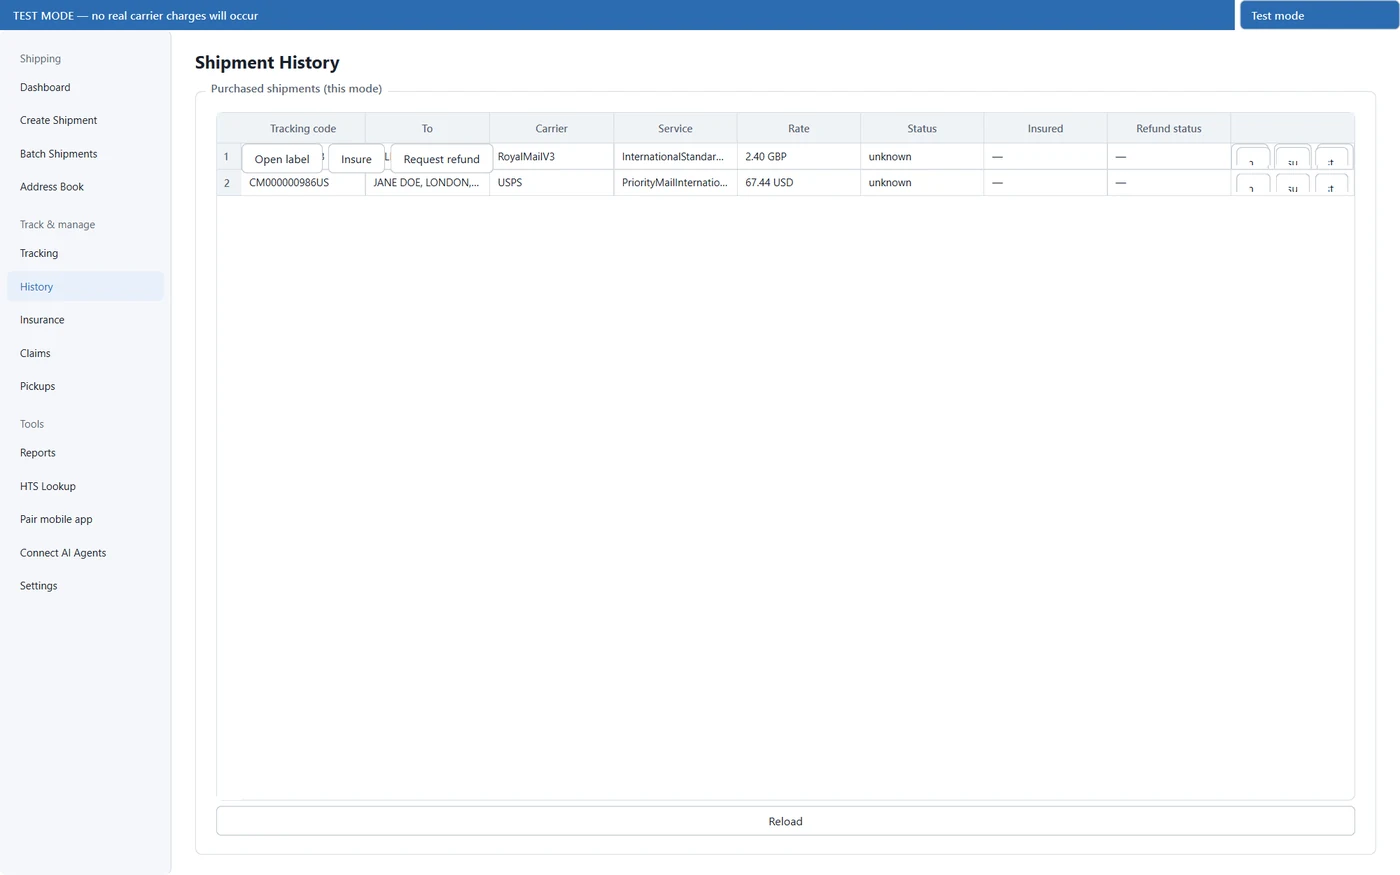
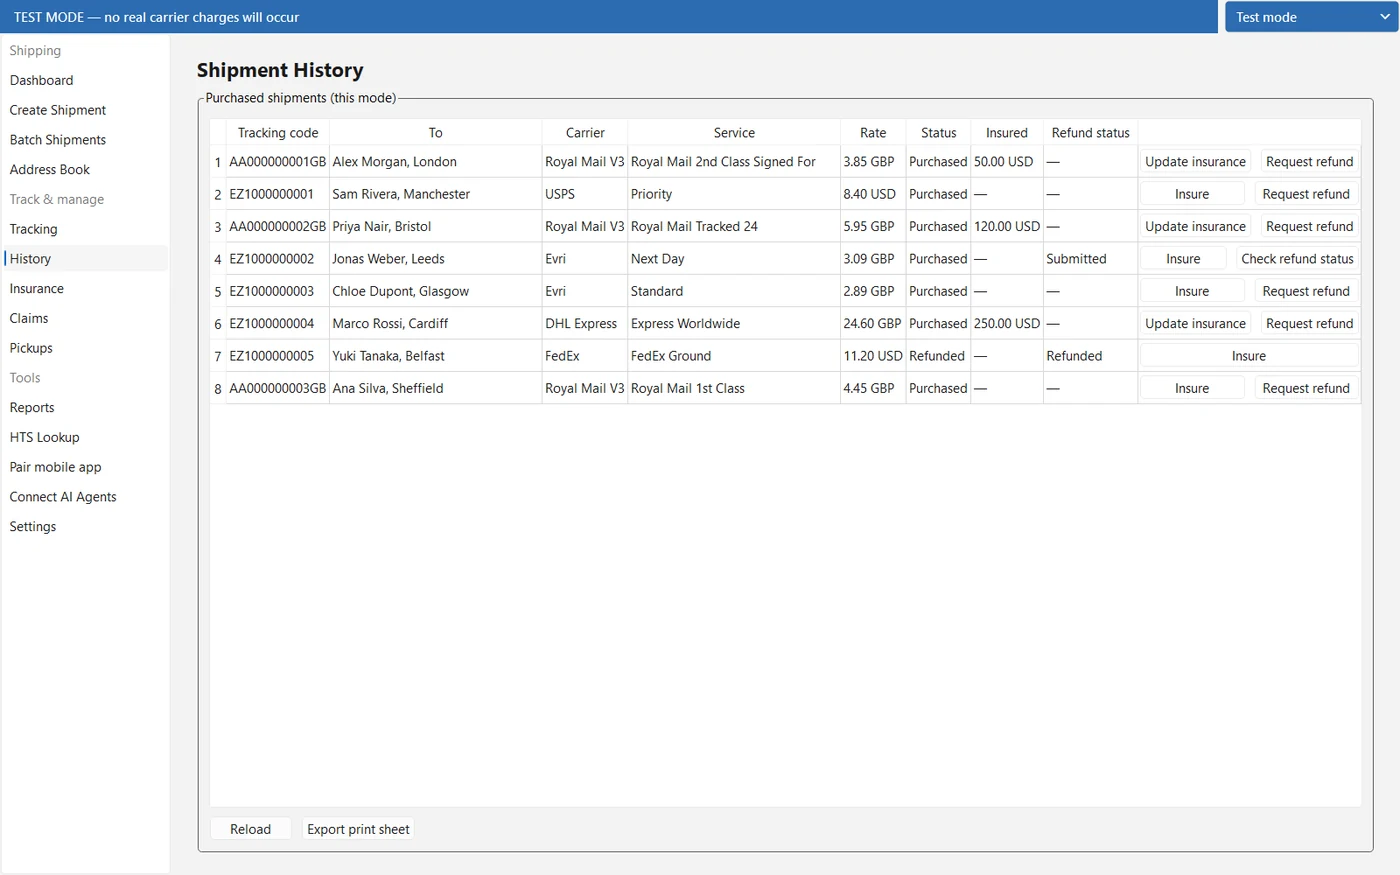
Regenerate the site screenshots and drop the placeholder Dashboard (#59)
* Regenerate eight site screenshots with the fixed capture tool

Replaces address-book, batch-shipments, history, hts-lookup, rate-shopping, reports, settings and tracking. The previous set came from the superseded harness, which photographed the real app database: masked key fields, carrier accounts and an early build with buttons painted over table rows. These are rendered from seeded data with a placeholder key, full window at 1600x1000, downsized to the site's 1400x875 WebP. dashboard.webp is unchanged pending a decision: the app's Dashboard is still a placeholder page.

* Drop the placeholder Dashboard from the site gallery and say eight screens

The Dashboard figure claimed shipping activity at a glance, but the app's Dashboard is still a placeholder page; re-rendering only reproduced it. Remove the figure and dashboard.webp from all 16 language pages and change the gallery sentence from nine screens to eight in each language. It can return once the app has a real Dashboard.

---------

diff --git a/site/te/index.html b/site/te/index.html
@@ -141,7 +141,7 @@
   <div class="wrap">
     <p class="eyebrow">లోపలి వీక్షణ</p>
     <h2>ఇది ఎలా కనిపిస్తుంది</h2>
-    <p>అప్లికేషన్ నుండి నేరుగా తీసుకున్న తొమ్మిది స్క్రీన్షాట్లు, మాక్-అప్లు కాదు.</p>
+    <p>అప్లికేషన్ నుండి నేరుగా తీసుకున్న ఎనిమిది స్క్రీన్షాట్లు, మాక్-అప్లు కాదు.</p>
     <div class="shots">
       <figure>
         <img src="../screenshots/rate-shopping.webp" alt="రేటు పోలిక స్క్రీన్" width="1400" height="875">
@@ -170,10 +170,6 @@
       <figure>
         <img src="../screenshots/hts-lookup.webp" alt="కస్టమ్స్ కోడ్ లుకప్" width="1400" height="875" loading="lazy" decoding="async">
         <figcaption>కస్టమ్స్ పత్రాల కోసం ప్రత్యక్ష హార్మొనైజ్డ్ టారిఫ్ షెడ్యూల్ కోడ్లను శోధించండి.</figcaption>
-      </figure>
-      <figure>
-        <img src="../screenshots/dashboard.webp" alt="డాష్బోర్డ్" width="1400" height="875" loading="lazy" decoding="async">
-        <figcaption>యాప్ తెరవగానే ఒక్క చూపులో షిప్పింగ్ కార్యకలాపం.</figcaption>
       </figure>
       <figure>
         <img src="../screenshots/settings.webp" alt="సెట్టింగుల స్క్రీన్" width="1400" height="875" loading="lazy" decoding="async">

diff --git a/site/bn/index.html b/site/bn/index.html
@@ -141,7 +141,7 @@
   <div class="wrap">
     <p class="eyebrow">একটি ভেতরের দৃশ্য</p>
     <h2>এটি কেমন দেখায়</h2>
-    <p>নিজেই অ্যাপ্লিকেশন থেকে নেওয়া নয়টি স্ক্রিন, কোনো মক-আপ নয়।</p>
+    <p>নিজেই অ্যাপ্লিকেশন থেকে নেওয়া আটটি স্ক্রিন, কোনো মক-আপ নয়।</p>
     <div class="shots">
       <figure>
         <img src="../screenshots/rate-shopping.webp" alt="রেট তুলনা স্ক্রিন" width="1400" height="875">
@@ -170,10 +170,6 @@
       <figure>
         <img src="../screenshots/hts-lookup.webp" alt="কাস্টমস কোড লুকআপ" width="1400" height="875" loading="lazy" decoding="async">
         <figcaption>কাস্টমস কাগজপত্রের জন্য লাইভ Harmonized Tariff Schedule কোড অনুসন্ধান করুন।</figcaption>
-      </figure>
-      <figure>
-        <img src="../screenshots/dashboard.webp" alt="ড্যাশবোর্ড" width="1400" height="875" loading="lazy" decoding="async">
-        <figcaption>শিপিং কার্যক্রম এক নজরে, অ্যাপ খোলামাত্রই।</figcaption>
       </figure>
       <figure>
         <img src="../screenshots/settings.webp" alt="সেটিংস স্ক্রিন" width="1400" height="875" loading="lazy" decoding="async">

diff --git a/site/hi/index.html b/site/hi/index.html
@@ -141,7 +141,7 @@
   <div class="wrap">
     <p class="eyebrow">एक झलक अंदर की</p>
     <h2>यह देखने में कैसा है</h2>
-    <p>स्वयं ऐप्लिकेशन से लिए गए नौ स्क्रीन, कोई मॉक-अप नहीं।</p>
+    <p>स्वयं ऐप्लिकेशन से लिए गए आठ स्क्रीन, कोई मॉक-अप नहीं।</p>
     <div class="shots">
       <figure>
         <img src="../screenshots/rate-shopping.webp" alt="रेट तुलना स्क्रीन" width="1400" height="875">
@@ -170,10 +170,6 @@
       <figure>
         <img src="../screenshots/hts-lookup.webp" alt="कस्टम्स कोड लुकअप" width="1400" height="875" loading="lazy" decoding="async">
         <figcaption>कस्टम्स कागज़ी कार्रवाई के लिए लाइव Harmonized Tariff Schedule कोड खोजें।</figcaption>
-      </figure>
-      <figure>
-        <img src="../screenshots/dashboard.webp" alt="डैशबोर्ड" width="1400" height="875" loading="lazy" decoding="async">
-        <figcaption>ऐप खुलते ही शिपिंग गतिविधि एक नज़र में।</figcaption>
       </figure>
       <figure>
         <img src="../screenshots/settings.webp" alt="सेटिंग्स स्क्रीन" width="1400" height="875" loading="lazy" decoding="async">

diff --git a/site/mr/index.html b/site/mr/index.html
@@ -141,7 +141,7 @@
   <div class="wrap">
     <p class="eyebrow">आतमध्ये एक नजर</p>
     <h2>ते कसे दिसते</h2>
-    <p>अॅप्लिकेशनमधीलच नऊ स्क्रीन, नमुना प्रतिमा नव्हे.</p>
+    <p>अॅप्लिकेशनमधीलच आठ स्क्रीन, नमुना प्रतिमा नव्हे.</p>
     <div class="shots">
       <figure>
         <img src="../screenshots/rate-shopping.webp" alt="दर तुलना स्क्रीन" width="1400" height="875">
@@ -170,10 +170,6 @@
       <figure>
         <img src="../screenshots/hts-lookup.webp" alt="कस्टम्स कोड लूकअप" width="1400" height="875" loading="lazy" decoding="async">
         <figcaption>कस्टम्स कागदपत्रांसाठी थेट Harmonized Tariff Schedule कोड शोधा.</figcaption>
-      </figure>
-      <figure>
-        <img src="../screenshots/dashboard.webp" alt="डॅशबोर्ड" width="1400" height="875" loading="lazy" decoding="async">
-        <figcaption>अॅप उघडताच शिपिंग हालचालींचा एका दृष्टीक्षेपात आढावा.</figcaption>
       </figure>
       <figure>
         <img src="../screenshots/settings.webp" alt="सेटिंग्ज स्क्रीन" width="1400" height="875" loading="lazy" decoding="async">

diff --git a/site/ru/index.html b/site/ru/index.html
@@ -141,7 +141,7 @@
   <div class="wrap">
     <p class="eyebrow">Взгляд изнутри</p>
     <h2>Как это выглядит</h2>
-    <p>Девять экранов из самого приложения, а не макеты.</p>
+    <p>Восемь экранов из самого приложения, а не макеты.</p>
     <div class="shots">
       <figure>
         <img src="../screenshots/rate-shopping.webp" alt="Экран сравнения тарифов" width="1400" height="875">
@@ -170,10 +170,6 @@
       <figure>
         <img src="../screenshots/hts-lookup.webp" alt="Поиск таможенных кодов" width="1400" height="875" loading="lazy" decoding="async">
         <figcaption>Ищите актуальные коды Гармонизированной тарифной системы для таможенных документов.</figcaption>
-      </figure>
-      <figure>
-        <img src="../screenshots/dashboard.webp" alt="Панель управления" width="1400" height="875" loading="lazy" decoding="async">
-        <figcaption>Сводка почтовой активности сразу при открытии приложения.</figcaption>
       </figure>
       <figure>
         <img src="../screenshots/settings.webp" alt="Экран настроек" width="1400" height="875" loading="lazy" decoding="async">

diff --git a/site/ur/index.html b/site/ur/index.html
@@ -141,7 +141,7 @@
   <div class="wrap">
     <p class="eyebrow">ایک نظر اندر</p>
     <h2>یہ کیسا دکھتا ہے</h2>
-    <p>ایپلیکیشن سے ہی لیے گئے نو اسکرین شاٹس، نہ کہ نقلی نمونے۔</p>
+    <p>ایپلیکیشن سے ہی لیے گئے آٹھ اسکرین شاٹس، نہ کہ نقلی نمونے۔</p>
     <div class="shots">
       <figure>
         <img src="../screenshots/rate-shopping.webp" alt="ریٹ موازنہ اسکرین" width="1400" height="875">
@@ -170,10 +170,6 @@
       <figure>
         <img src="../screenshots/hts-lookup.webp" alt="کسٹمز کوڈ لُک اپ" width="1400" height="875" loading="lazy" decoding="async">
         <figcaption>کسٹمز کاغذی کارروائی کے لیے لائیو Harmonized Tariff Schedule کوڈز تلاش کریں۔</figcaption>
-      </figure>
-      <figure>
-        <img src="../screenshots/dashboard.webp" alt="ڈیش بورڈ" width="1400" height="875" loading="lazy" decoding="async">
-        <figcaption>شپنگ کی سرگرمی ایک نظر میں، ایپ کھلتے ہی۔</figcaption>
       </figure>
       <figure>
         <img src="../screenshots/settings.webp" alt="سیٹنگز اسکرین" width="1400" height="875" loading="lazy" decoding="async">

diff --git a/site/ar/index.html b/site/ar/index.html
@@ -141,7 +141,7 @@
   <div class="wrap">
     <p class="eyebrow">نظرة من الداخل</p>
     <h2>شكل التطبيق</h2>
-    <p>تسع شاشات من التطبيق نفسه، وليست تصاميم تجريبية.</p>
+    <p>ثماني شاشات من التطبيق نفسه، وليست تصاميم تجريبية.</p>
     <div class="shots">
       <figure>
         <img src="../screenshots/rate-shopping.webp" alt="شاشة مقارنة الأسعار" width="1400" height="875">
@@ -170,10 +170,6 @@
       <figure>
         <img src="../screenshots/hts-lookup.webp" alt="البحث عن رموز الجمارك" width="1400" height="875" loading="lazy" decoding="async">
         <figcaption>ابحث في رموز الجدول التعريفي المنسق المباشرة لأوراق الجمارك.</figcaption>
-      </figure>
-      <figure>
-        <img src="../screenshots/dashboard.webp" alt="لوحة التحكم" width="1400" height="875" loading="lazy" decoding="async">
-        <figcaption>نظرة سريعة على نشاط الشحن فور فتح التطبيق.</figcaption>
       </figure>
       <figure>
         <img src="../screenshots/settings.webp" alt="شاشة الإعدادات" width="1400" height="875" loading="lazy" decoding="async">

diff --git a/site/ja/index.html b/site/ja/index.html
@@ -141,7 +141,7 @@
   <div class="wrap">
     <p class="eyebrow">中身を見る</p>
     <h2>使用画面</h2>
-    <p>実際のアプリケーションから9つの画面、モックアップではありません。</p>
+    <p>実際のアプリケーションから8つの画面、モックアップではありません。</p>
     <div class="shots">
       <figure>
         <img src="../screenshots/rate-shopping.webp" alt="料金比較画面" width="1400" height="875">
@@ -170,10 +170,6 @@
       <figure>
         <img src="../screenshots/hts-lookup.webp" alt="関税コード検索" width="1400" height="875" loading="lazy" decoding="async">
         <figcaption>税関書類のためのHarmonized Tariff Scheduleコードをリアルタイムで検索できます。</figcaption>
-      </figure>
-      <figure>
-        <img src="../screenshots/dashboard.webp" alt="ダッシュボード" width="1400" height="875" loading="lazy" decoding="async">
-        <figcaption>アプリを開いた瞬間に、配送状況が一目でわかります。</figcaption>
       </figure>
       <figure>
         <img src="../screenshots/settings.webp" alt="設定画面" width="1400" height="875" loading="lazy" decoding="async">

diff --git a/site/fr/index.html b/site/fr/index.html
@@ -141,7 +141,7 @@
   <div class="wrap">
     <p class="eyebrow">Un aperçu de l'intérieur</p>
     <h2>À quoi cela ressemble</h2>
-    <p>Neuf écrans issus de l'application elle-même, et non des maquettes.</p>
+    <p>Huit écrans issus de l'application elle-même, et non des maquettes.</p>
     <div class="shots">
       <figure>
         <img src="../screenshots/rate-shopping.webp" alt="L'écran de comparaison des tarifs" width="1400" height="875">
@@ -170,10 +170,6 @@
       <figure>
         <img src="../screenshots/hts-lookup.webp" alt="La recherche de codes douaniers" width="1400" height="875" loading="lazy" decoding="async">
         <figcaption>Recherchez les codes du tarif douanier harmonisé en direct pour vos documents de douane.</figcaption>
-      </figure>
-      <figure>
-        <img src="../screenshots/dashboard.webp" alt="Le tableau de bord" width="1400" height="875" loading="lazy" decoding="async">
-        <figcaption>L'activité d'expédition en un coup d'œil dès l'ouverture de l'application.</figcaption>
       </figure>
       <figure>
         <img src="../screenshots/settings.webp" alt="L'écran des réglages" width="1400" height="875" loading="lazy" decoding="async">

diff --git a/site/es/index.html b/site/es/index.html
@@ -141,7 +141,7 @@
   <div class="wrap">
     <p class="eyebrow">Un vistazo por dentro</p>
     <h2>Cómo se ve</h2>
-    <p>Nueve pantallas de la propia aplicación, no bocetos.</p>
+    <p>Ocho pantallas de la propia aplicación, no bocetos.</p>
     <div class="shots">
       <figure>
         <img src="../screenshots/rate-shopping.webp" alt="La pantalla de comparación de tarifas" width="1400" height="875">
@@ -170,10 +170,6 @@
       <figure>
         <img src="../screenshots/hts-lookup.webp" alt="La búsqueda de códigos arancelarios" width="1400" height="875" loading="lazy" decoding="async">
         <figcaption>Busque códigos vigentes del Arancel Armonizado para la documentación aduanera.</figcaption>
-      </figure>
-      <figure>
-        <img src="../screenshots/dashboard.webp" alt="El panel de control" width="1400" height="875" loading="lazy" decoding="async">
-        <figcaption>La actividad de envíos de un vistazo en el momento en que se abre la aplicación.</figcaption>
       </figure>
       <figure>
         <img src="../screenshots/settings.webp" alt="La pantalla de ajustes" width="1400" height="875" loading="lazy" decoding="async">

diff --git a/site/pt/index.html b/site/pt/index.html
@@ -141,7 +141,7 @@
   <div class="wrap">
     <p class="eyebrow">Uma olhadela por dentro</p>
     <h2>Como é</h2>
-    <p>Nove ecrãs da própria aplicação, não simulações.</p>
+    <p>Oito ecrãs da própria aplicação, não simulações.</p>
     <div class="shots">
       <figure>
         <img src="../screenshots/rate-shopping.webp" alt="O ecrã de comparação de tarifas" width="1400" height="875">
@@ -170,10 +170,6 @@
       <figure>
         <img src="../screenshots/hts-lookup.webp" alt="A consulta de códigos aduaneiros" width="1400" height="875" loading="lazy" decoding="async">
         <figcaption>Pesquise códigos da Harmonized Tariff Schedule em tempo real para a documentação aduaneira.</figcaption>
-      </figure>
-      <figure>
-        <img src="../screenshots/dashboard.webp" alt="O painel" width="1400" height="875" loading="lazy" decoding="async">
-        <figcaption>Atividade de envios de forma clara logo ao abrir a aplicação.</figcaption>
       </figure>
       <figure>
         <img src="../screenshots/settings.webp" alt="O ecrã de definições" width="1400" height="875" loading="lazy" decoding="async">

diff --git a/site/id/index.html b/site/id/index.html
@@ -141,7 +141,7 @@
   <div class="wrap">
     <p class="eyebrow">Sekilas dari dalam</p>
     <h2>Seperti apa tampilannya</h2>
-    <p>Sembilan layar dari aplikasi itu sendiri, bukan gambar rekaan.</p>
+    <p>Delapan layar dari aplikasi itu sendiri, bukan gambar rekaan.</p>
     <div class="shots">
       <figure>
         <img src="../screenshots/rate-shopping.webp" alt="Layar perbandingan tarif" width="1400" height="875">
@@ -170,10 +170,6 @@
       <figure>
         <img src="../screenshots/hts-lookup.webp" alt="Pencarian kode bea cukai" width="1400" height="875" loading="lazy" decoding="async">
         <figcaption>Cari kode Harmonized Tariff Schedule secara langsung untuk keperluan dokumen bea cukai.</figcaption>
-      </figure>
-      <figure>
-        <img src="../screenshots/dashboard.webp" alt="Dasbor" width="1400" height="875" loading="lazy" decoding="async">
-        <figcaption>Aktivitas pengiriman sekilas pandang begitu aplikasi dibuka.</figcaption>
       </figure>
       <figure>
         <img src="../screenshots/settings.webp" alt="Layar pengaturan" width="1400" height="875" loading="lazy" decoding="async">
